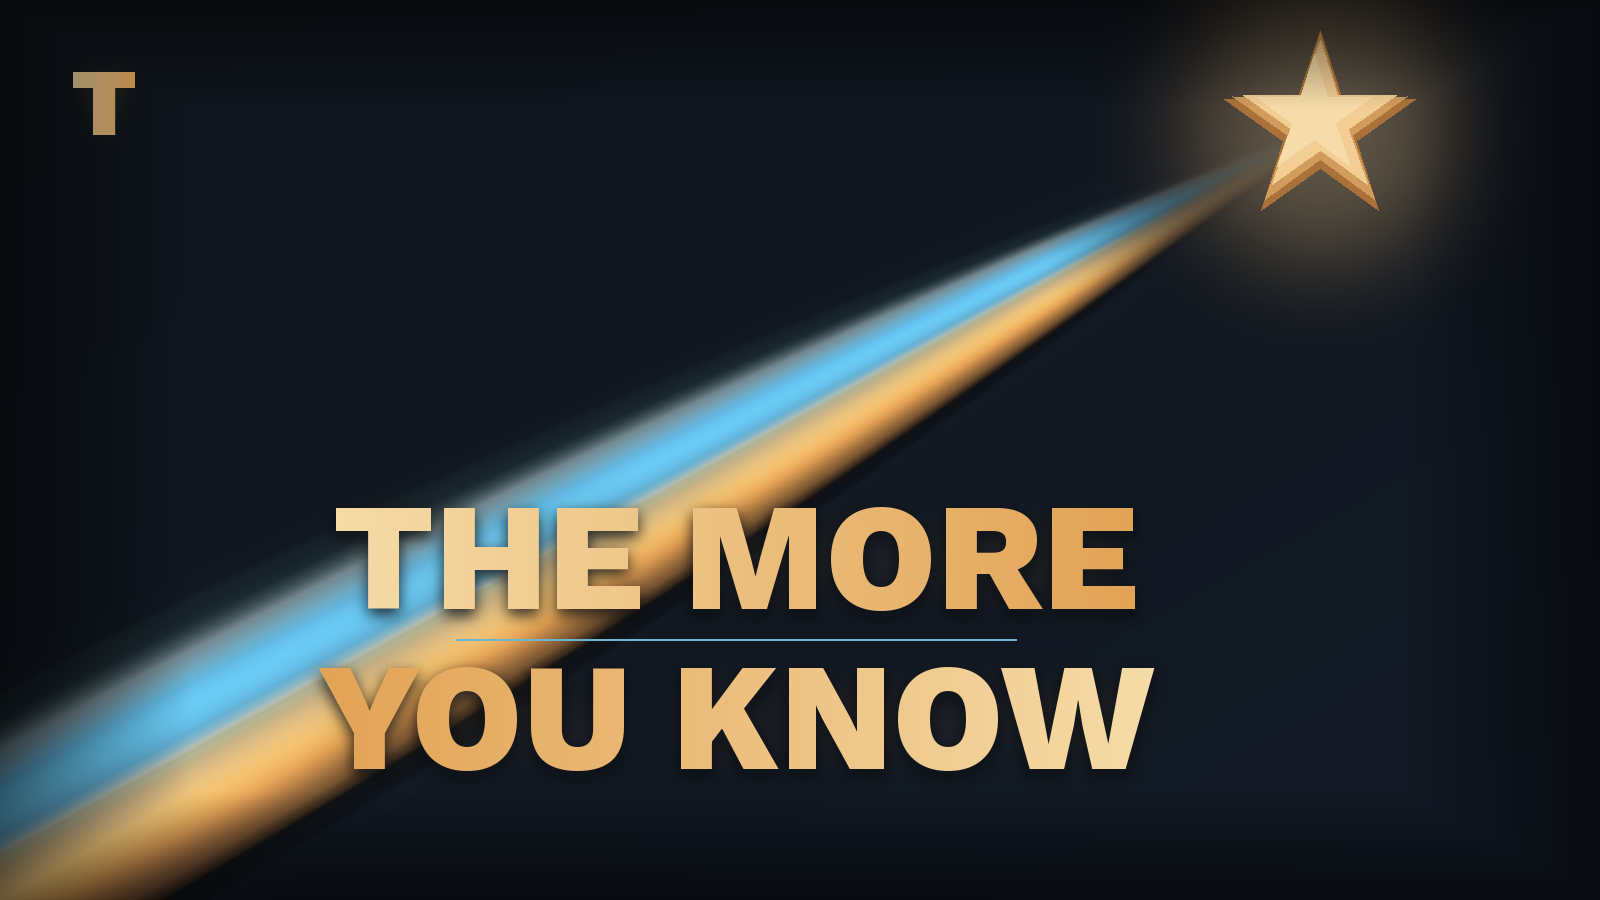
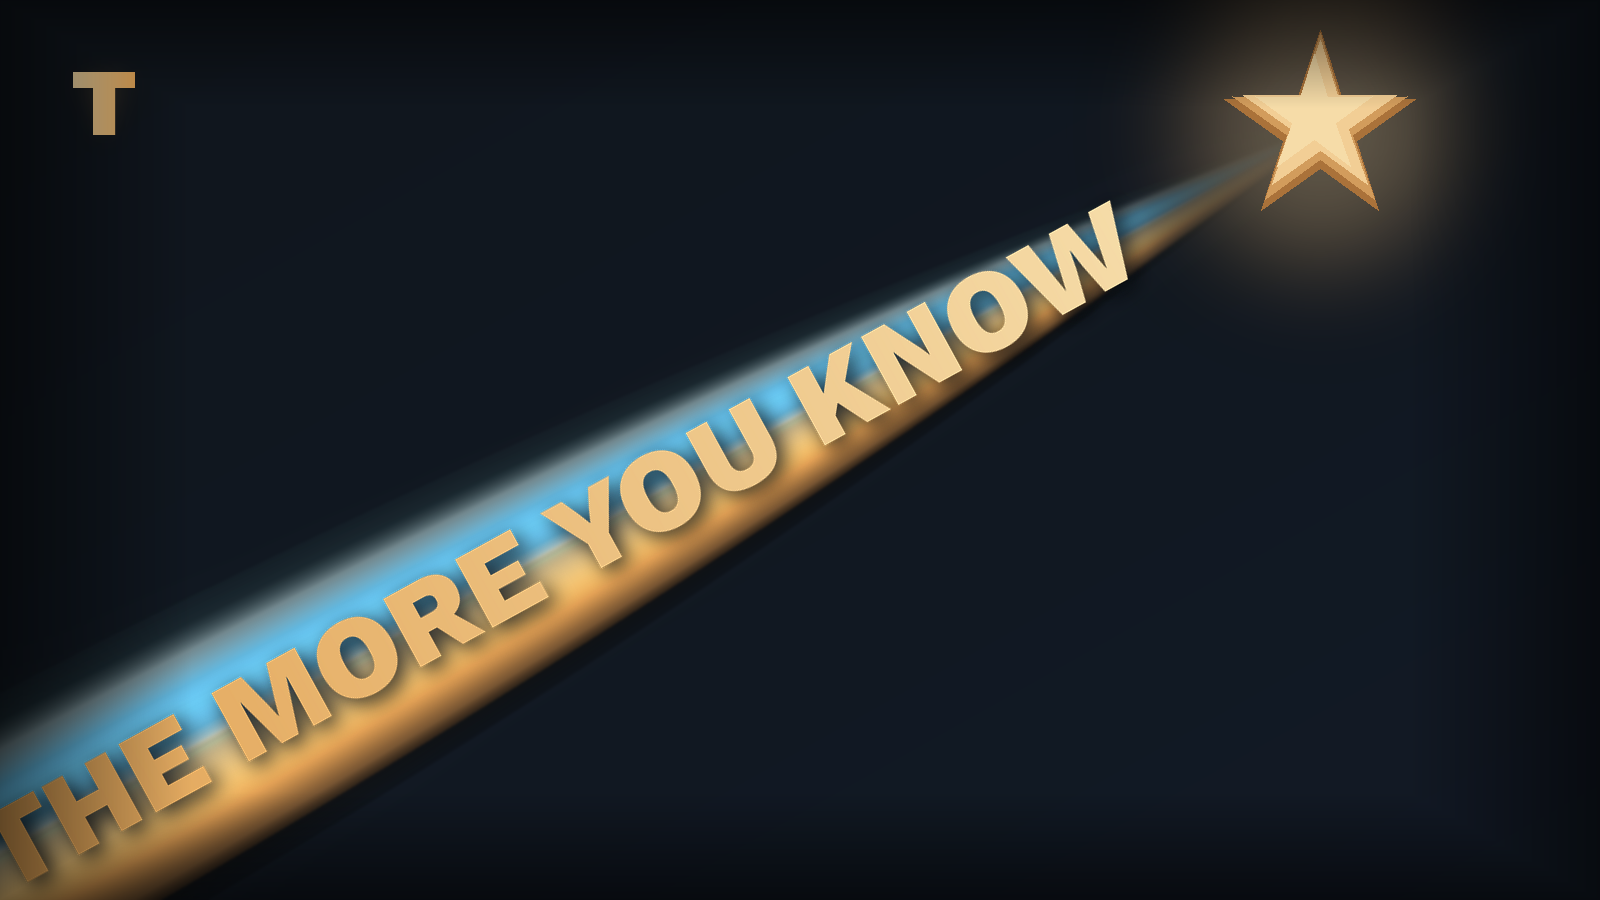
Run headline text diagonally along the comet trail
Replace two-line horizontal layout with a single 'THE MORE YOU KNOW'
headline rotated to match the trail angle (~28.7°), centred along the
trail body so it runs from the lower-left into the star — matching the
NBC TMYK layout. Shadow retained for legibility; gold gradient now
flows dark-to-light from tail toward the star.

https://claude.ai/code/session_01CezctGf6vzoHxstcG5N1or

Changed region(s): [[0.0, 0.2178, 0.7188, 0.9956]]

diff --git a/tmyk_graphic.py b/tmyk_graphic.py
@@ -77,6 +77,74 @@ def gradient_text(canvas, text, font, cx, cy, c_left, c_right):
     canvas.alpha_composite(grad)
 
 
+def draw_diagonal_text(canvas):
+    """Render 'THE MORE YOU KNOW' running along the trail direction."""
+    # Trail angle: how many degrees the trail tilts upward from horizontal
+    angle_deg = math.degrees(math.atan2(
+        -(P_HEAD[1] - P_TAIL[1]),   # negate: screen-y is inverted
+         P_HEAD[0] - P_TAIL[0]))    # ≈ 28.7°
+
+    font = load_font(118, weight=800)
+    text = "THE MORE YOU KNOW"
+
+    # ── measure text ─────────────────────────────────────────────────────────
+    tmp  = Image.new('RGBA', (3000, 400), (0, 0, 0, 0))
+    bbox = ImageDraw.Draw(tmp).textbbox((0, 0), text, font=font, anchor="lt")
+    tw, th = bbox[2] - bbox[0], bbox[3] - bbox[1]
+    pad = 90   # padding so rotation doesn't clip descenders/ascenders
+
+    TC_W, TC_H = tw + pad * 2, th + pad * 2
+    tc   = Image.new('RGBA', (TC_W, TC_H), (0, 0, 0, 0))
+    tx_  = pad
+    ty_  = pad - bbox[1]
+
+    # ── shadow ────────────────────────────────────────────────────────────────
+    sh = Image.new('RGBA', (TC_W, TC_H), (0, 0, 0, 0))
+    ImageDraw.Draw(sh).text((tx_ + 4, ty_ + 8), text,
+                            font=font, fill=(*NIGHT, 220), anchor="lt")
+    sh = sh.filter(ImageFilter.GaussianBlur(radius=10))
+    tc.alpha_composite(sh)
+
+    # ── gold gradient fill ────────────────────────────────────────────────────
+    mask = Image.new('L', (TC_W, TC_H), 0)
+    ImageDraw.Draw(mask).text((tx_, ty_), text, font=font, fill=255, anchor="lt")
+
+    grad = Image.new('RGBA', (TC_W, TC_H), (0, 0, 0, 0))
+    gd   = ImageDraw.Draw(grad)
+    for px in range(tx_, tx_ + tw + 2):
+        t   = (px - tx_) / max(tw, 1)
+        col = lerp(GOLD_ACC, GOLD_TXT, t)   # darker at tail → lighter near star
+        gd.line([(px, 0), (px, TC_H)], fill=(*col, 255))
+    grad.putalpha(mask)
+    tc.alpha_composite(grad)
+
+    # ── rotate to match trail angle ───────────────────────────────────────────
+    rotated = tc.rotate(angle_deg, expand=True, resample=Image.BICUBIC)
+
+    # ── position: centre of text sits at ~54 % along the trail ───────────────
+    t_c = 0.47
+    cx  = P_TAIL[0] + TRAIL_U[0] * t_c * TRAIL_LEN
+    cy  = P_TAIL[1] + TRAIL_U[1] * t_c * TRAIL_LEN
+
+    paste_x = int(cx - rotated.width  / 2)
+    paste_y = int(cy - rotated.height / 2)
+
+    # Composite via a full-canvas intermediate so off-edge pixels are ignored
+    layer = Image.new('RGBA', (W, H), (0, 0, 0, 0))
+    # Crop the rotated image to the canvas area before compositing
+    src_x0 = max(0, -paste_x);  src_y0 = max(0, -paste_y)
+    dst_x0 = max(0,  paste_x);  dst_y0 = max(0,  paste_y)
+    dst_x1 = min(W,  paste_x + rotated.width)
+    dst_y1 = min(H,  paste_y + rotated.height)
+    src_x1 = src_x0 + (dst_x1 - dst_x0)
+    src_y1 = src_y0 + (dst_y1 - dst_y0)
+    if dst_x1 > dst_x0 and dst_y1 > dst_y0:
+        layer.alpha_composite(
+            rotated.crop((src_x0, src_y0, src_x1, src_y1)),
+            (dst_x0, dst_y0))
+    canvas.alpha_composite(layer)
+
+
 # ── trail geometry ────────────────────────────────────────────────────────────
 # tail bleeds off lower-left; head is where the star sits
 P_TAIL = np.array([-120.0, 920.0])
@@ -276,32 +344,8 @@ def render():
     # 4 ── solid star at head ──────────────────────────────────────────────────
     draw_star(canvas, float(P_HEAD[0]), float(P_HEAD[1]))
 
-    # 5 ── text ────────────────────────────────────────────────────────────────
-    font_lg = load_font(152, weight=800)
-
-    text_cx = W * 0.46
-    text_cy = H * 0.71
-
-    # Subtle bloom
-    bloom = Image.new('RGBA', (W, H), (0, 0, 0, 0))
-    bd    = ImageDraw.Draw(bloom)
-    bd.text((text_cx, text_cy - 80), "THE MORE", font=font_lg,
-            fill=(*GOLD_ACC, 40), anchor="mm")
-    bd.text((text_cx, text_cy + 80), "YOU KNOW", font=font_lg,
-            fill=(*GOLD_ACC, 40), anchor="mm")
-    bloom = bloom.filter(ImageFilter.GaussianBlur(radius=22))
-    canvas.alpha_composite(bloom)
-
-    # Drop shadows — make text readable against the gold trail stripe
-    text_shadow(canvas, "THE MORE", font_lg, text_cx, text_cy - 80, dy=6, blur=7, alpha=220)
-    text_shadow(canvas, "YOU KNOW", font_lg, text_cx, text_cy + 80, dy=6, blur=7, alpha=220)
-
-    gradient_text(canvas, "THE MORE", font_lg, text_cx, text_cy - 80, GOLD_TXT, GOLD_ACC)
-    gradient_text(canvas, "YOU KNOW", font_lg, text_cx, text_cy + 80, GOLD_ACC, GOLD_TXT)
-
-    ImageDraw.Draw(canvas).line(
-        [(text_cx - 560/2, text_cy), (text_cx + 560/2, text_cy)],
-        fill=(*ICE, 145), width=2)
+    # 5 ── diagonal headline text along the trail ─────────────────────────────
+    draw_diagonal_text(canvas)
 
     # 6 ── "T" logo ────────────────────────────────────────────────────────────
     logo_font = load_font(96, weight=900)
